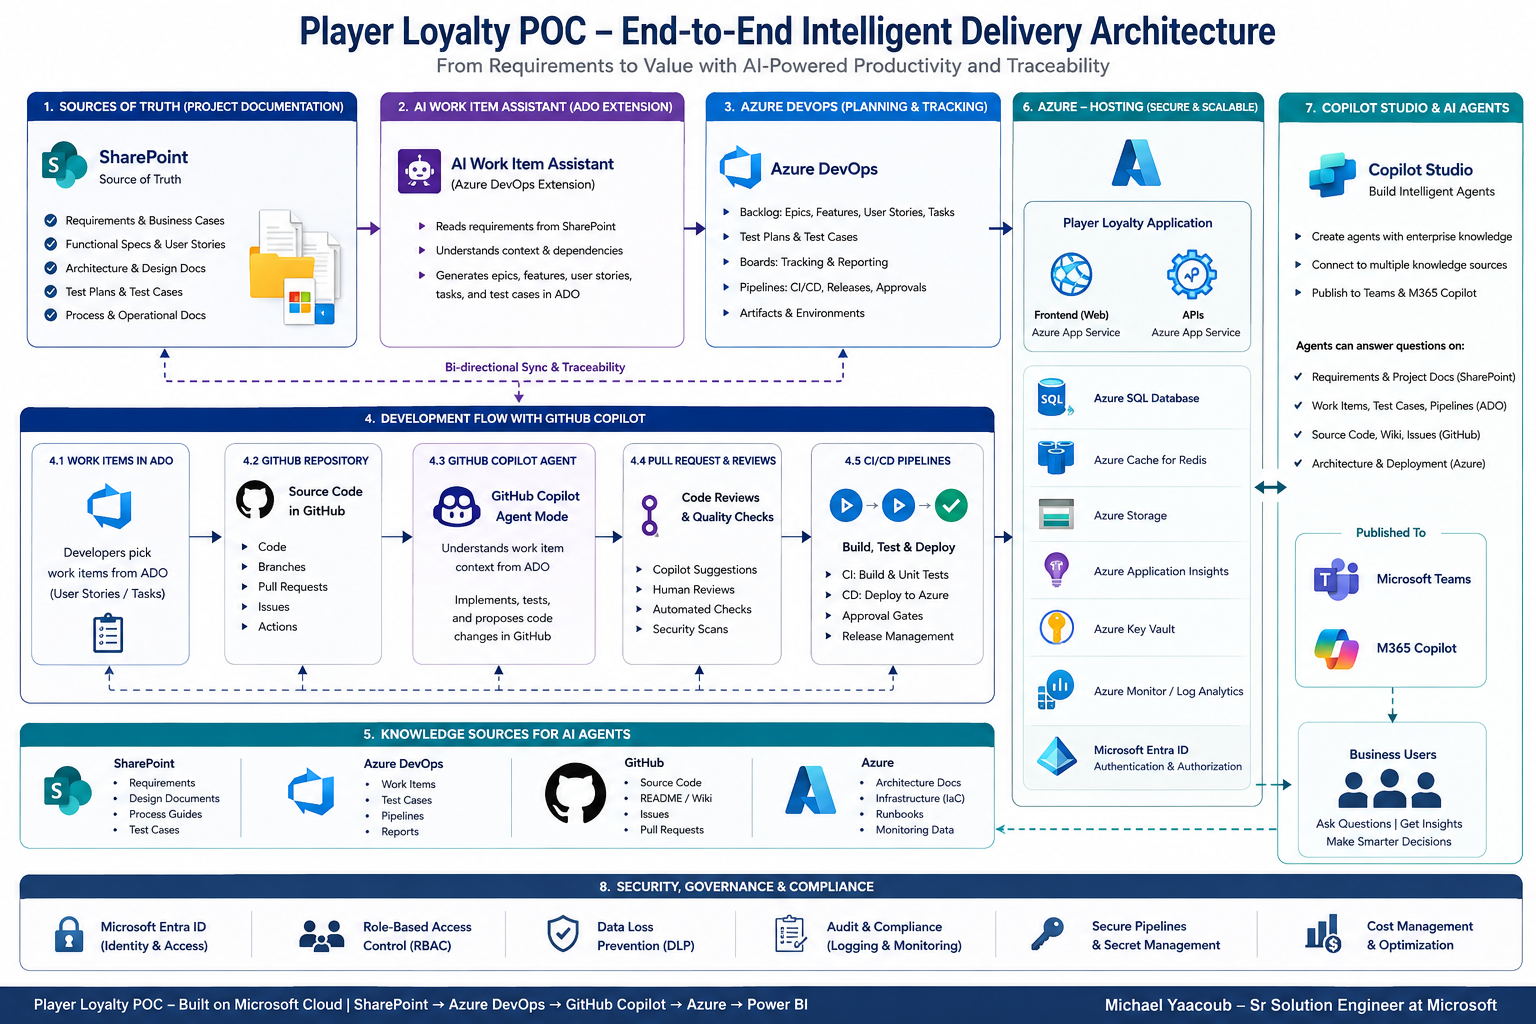
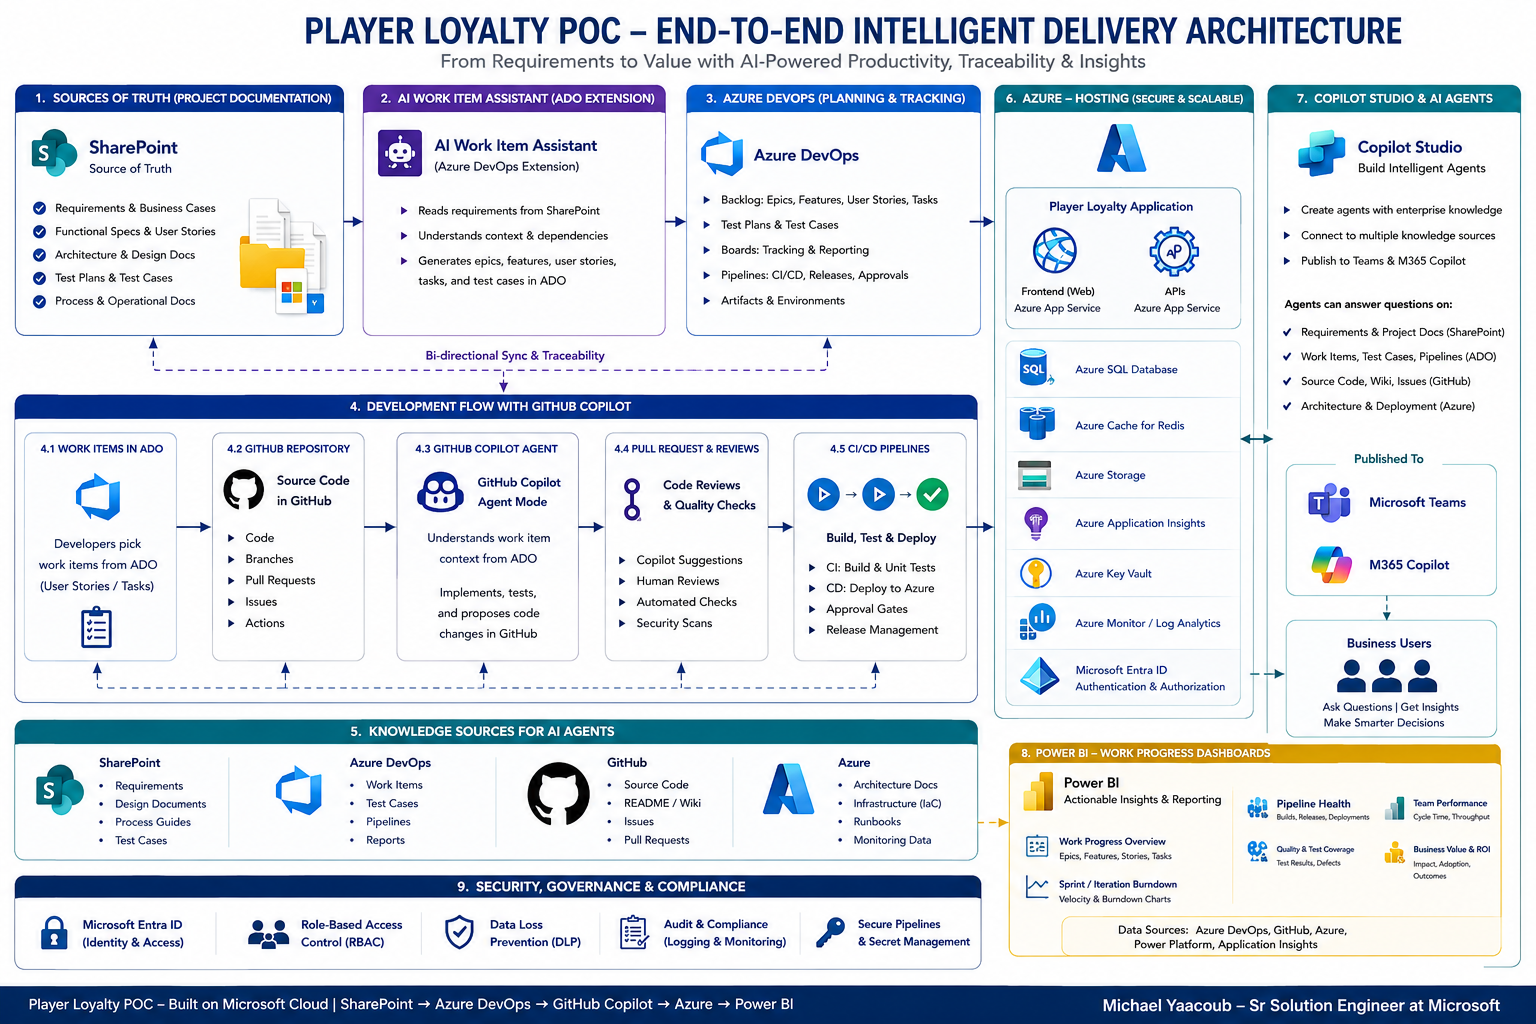
readme

Changed region(s): [[0.0, 0.0, 1.0, 1.0], [0.7188, 0.9688, 0.9688, 1.0]]

diff --git a/README.md b/README.md
@@ -29,10 +29,6 @@ A responsive proof of concept for the L&W Rewards mobile experience. The applica
 
 ## Architecture
 
-The React client calls a typed Express REST API. The API initializes its in-memory state from `config/loyalty-data.json`, so the POC needs no database while still demonstrating service-backed reads and mutations. Redemption is idempotent for the lifetime of the API process, and saved notification preferences remain available across frontend navigation.
-
-Swagger UI and the OpenAPI document are exposed by the API. In Azure, the API and frontend run as separate Linux Node.js App Service apps on the existing `plan-taxforms` App Service Plan in `ai-myaacoub`.
-
 ![Architecture diagram of the L&W Rewards Player Loyalty POC](docs/architecture.png)
 
 The diagram shows how a single, integrated Microsoft toolchain carries a feature from a written requirement all the way to a running app and a business-facing assistant. Each platform owns one job and hands off to the next:
@@ -43,6 +39,7 @@ The diagram shows how a single, integrated Microsoft toolchain carries a feature
 4. **GitHub Copilot coding agent - implementation.** A work item in Azure DevOps is handed to the **GitHub Copilot coding agent**, which implements the change in GitHub and opens a pull request for review (see [Screenshots](#screenshots) for BUG 52 and BUG 53).
 5. **Azure App Service - hosting.** The Player Loyalty frontend and REST APIs are deployed as separate Linux Node.js App Service apps (see [Azure deployment](#azure-deployment)).
 6. **Microsoft Copilot Studio - business-facing agents.** Copilot Studio builds agents that connect to knowledge across SharePoint, Azure DevOps, and GitHub, then publishes them to **Microsoft Teams** and **Microsoft 365 Copilot** so business users can ask questions in natural language.
+7. **Power BI - work progress dashboards and actionable insights.** Power BI combines delivery and operational data from Azure DevOps, GitHub, Azure, Power Platform, and Application Insights to report on work progress, sprint burndown, pipeline health, team performance, test coverage, and business value.
 
 | Stage | Microsoft technology | Role in this solution |
 | --- | --- | --- |
@@ -52,10 +49,11 @@ The diagram shows how a single, integrated Microsoft toolchain carries a feature
 | CI/CD | **Azure Pipelines** | Build, test, and deploy the app and run automated test cases |
 | Source control | **GitHub** | Hosts application source code, branches, and pull requests |
 | AI implementation | **GitHub Copilot coding agent** | Implements Azure DevOps work items in GitHub via pull requests |
-| Hosting | **Azure App Service** | Runs the Player Loyalty frontend and APIs |
+| Application on Azure | **React 19**, **Express 5**, and **Azure App Service** | Runs the React frontend and typed REST API as separate Linux Node.js App Service apps on the existing `plan-taxforms` plan in `ai-myaacoub`. The API exposes Swagger UI and OpenAPI, and initializes its in-memory POC state from `config/loyalty-data.json` |
 | Business assistants | **Microsoft Copilot Studio** | Agents over SharePoint/ADO/GitHub knowledge, published to Teams and M365 Copilot |
+| Analytics and reporting | **Power BI** | Provides work progress dashboards and actionable delivery, quality, operational, and business insights |
 
-Together these products demonstrate the breadth of the Microsoft portfolio working as one system: documentation (SharePoint), planning and quality (Azure DevOps), code and AI-assisted development (GitHub and GitHub Copilot), cloud hosting (Azure), and conversational access for business users (Copilot Studio, Teams, and Microsoft 365 Copilot).
+Together these products demonstrate the breadth of the Microsoft portfolio working as one system: documentation (SharePoint), planning and quality (Azure DevOps), code and AI-assisted development (GitHub and GitHub Copilot), cloud hosting (Azure), analytics and reporting (Power BI), and conversational access for business users (Copilot Studio, Teams, and Microsoft 365 Copilot).
 
 ## Technology
 
